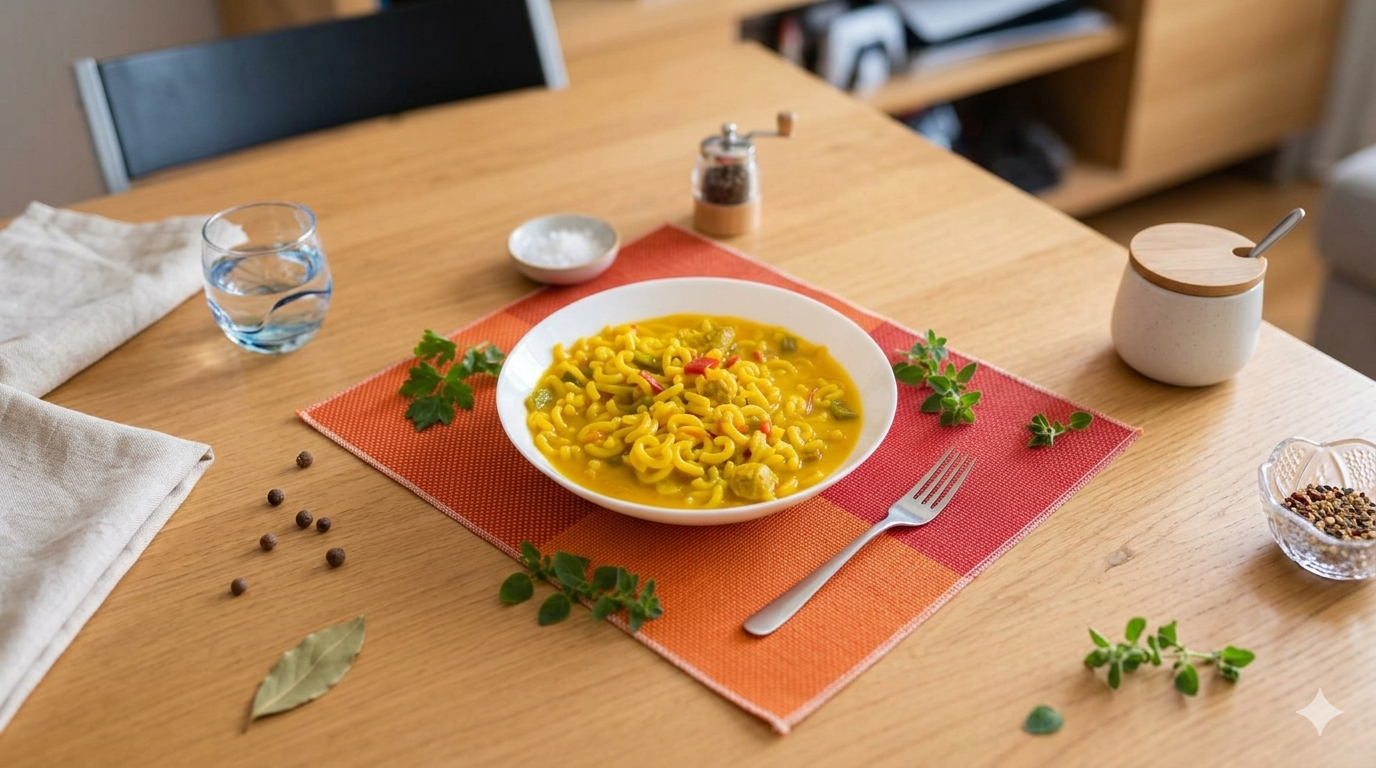
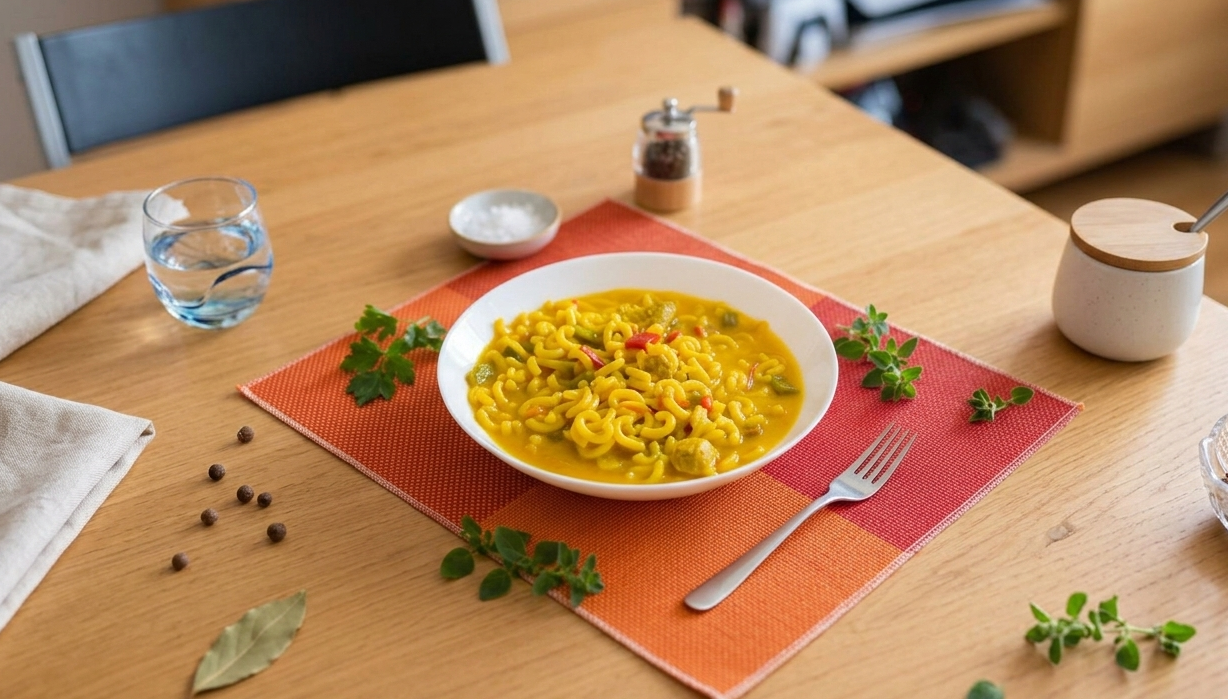
cambios en imagenes y recetas

diff --git a/main.tex b/main.tex
@@ -9,6 +9,8 @@
 \usepackage{graphicx}       
 \usepackage{geometry}
 \usepackage[hidelinks]{hyperref}
+\usepackage{caption} % Para manejar mejor los pies de foto
+\usepackage{qrcode}  % Opcional, si quieres que LaTeX genere el QR por ti
 \geometry{margin=2.5cm}
 
 % --- DEFINICIÓN DEL ESTILO DE LA RECETA ---
@@ -34,18 +36,17 @@
 
 \begin{titlepage}
     \centering
-    \vspace*{1cm} % Reducimos el espacio superior inicial
+    \vspace*{1cm}
     {\Huge \textbf{Si esto compila, se come}} \\
-    \vspace{0.8cm} % Reducimos espacio bajo el título
-    {\Large \textit{Recetas hechas con amor y \LaTeX}} \\
+    \vspace{0.8cm}
+    {\Large \textit{Recetas hechas con amor y \LaTeX\ }}
     
-    \vspace{1cm} % Espacio antes de la imagen
-    % Ajustamos un poco el ancho de la imagen para que no ocupe tanto
-    \includegraphics[width=0.55\textwidth]{imagenes/portada.png} 
+    \vspace{1cm}
+    \includegraphics[width=0.55\textwidth]{imagenes/portada.png}
     
-    \vfill % Este comando empuja lo siguiente al final de la página
-    {\Large \faUtensils \ \today} \\
-    \vspace{0.5cm} % Un pequeño margen final
+    \vfill
+    {\Large \faUtensils \ \today} \\ % Aquí hemos borrado el 
+    \vspace{0.5cm}
 \end{titlepage}
 
 \tableofcontents 

diff --git a/secciones/principales/fajitas.tex b/secciones/principales/fajitas.tex
@@ -25,8 +25,16 @@
         \end{enumerate}
     \end{minipage}
 
-    \vspace{1em}
-    \begin{tcolorbox}[colback=orange!5, colframe=orange!50, title=Sugerencia de emplatado, size=small]
-        Unta el guacamole directamente en la tortilla caliente antes de añadir la carne para que actúe como "pegamento" y aporte cremosidad.
+    \vspace{1cm}
+    \begin{tcolorbox}[colback=orange!5, colframe=orange!50, title=El rincón del Chef, sharp corners]
+        \begin{minipage}{0.25\textwidth}
+            \centering
+            % Usamos \mbox para proteger el dibujo del QR
+            \mbox{\qrcode[height=1.5cm]{https://open.spotify.com/playlist/6XOkYG9TT3Scvs9rsZ0xZF}} 
+        \end{minipage}
+        \begin{minipage}{0.7\textwidth}
+            \textbf{\faMusic\ Música sugerida:} Escanea para cocinar con ritmo. \\
+            \textbf{\faLightbulb\ Mi nota:} \textit{Añade una base de guacamole sobre la tortilla caliente antes de poner la carne.}
+        \end{minipage}
     \end{tcolorbox}
 \end{receta}

diff --git a/secciones/principales/fideos.tex b/secciones/principales/fideos.tex
@@ -3,6 +3,8 @@
     % --- AÑADIR FOTO ---
     \begin{center}
         \includegraphics[width=0.7\textwidth, angle=0]{imagenes/fideos_carne.png} 
+        \\ \vspace{0.3em}
+        \small \textit{Esta fue la primera vez que hice los fideos en el piso nuevo, ¡salieron de 10!} 
     \end{center}
     \vspace{0.5em}
 
